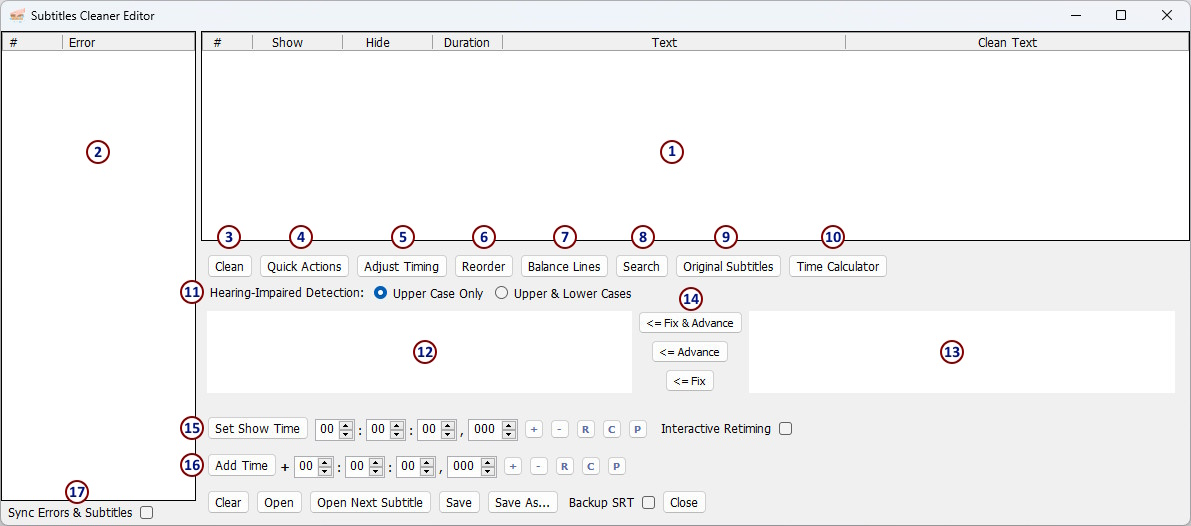
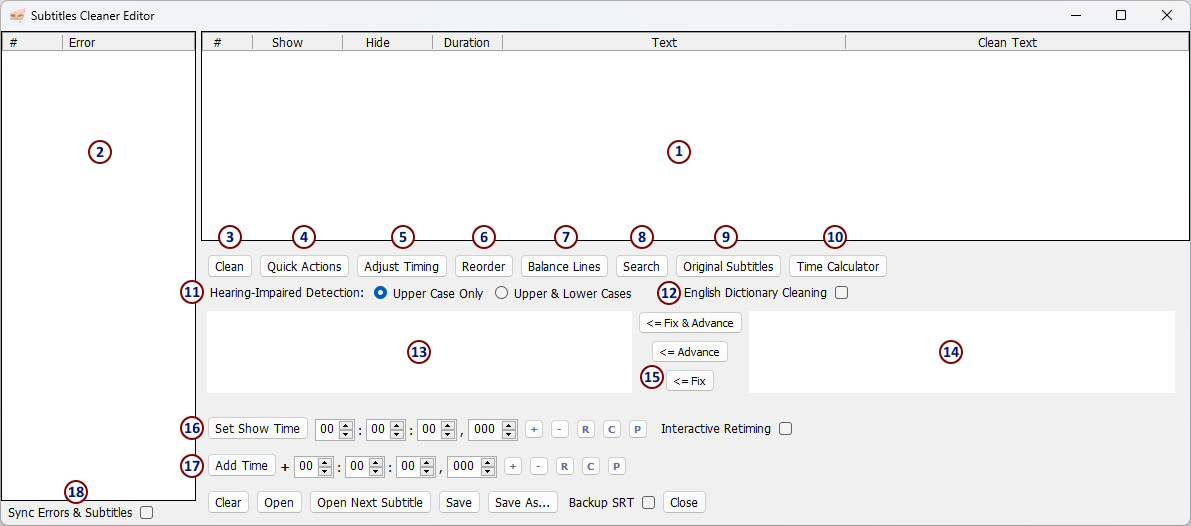
update readme.md with dictionary cleaning checkbox

diff --git a/README.md b/README.md
@@ -40,17 +40,19 @@ Subtitles Cleaner requires .NET Framework 4.8 Runtime to run.
 
 11. Hearing-Impaired Detection. Identifies hearing-impaired with only capital letters text or all-case text.
 
-12. Selected subtitle. Changes can be made in the textbox.
+12. Enable English dictionary (Hunspell dictionary) for cleaning misspelled words. This feature increases the cleaning time.
 
-13. Cleaned subtitle.
+13. Selected subtitle. Changes can be made in the textbox.
 
-14. Fix buttons will copy the cleaned subtitle to the subtitle itself. The advance button will also jump to the next subtitle with an error.
+14. Cleaned subtitle.
 
-15. Set Show Time. Set the specified show time to the selected subtitle and change the timings of all the subtitles below it based on their time differences. When the Interactive Retiming is checked, the show timings will change in the subtitles panel as the show time is changed.
+15. Fix buttons will copy the cleaned subtitle to the subtitle itself. The advance button will also jump to the next subtitle with an error.
 
-16. Add Time starting from the selected subtitle. Time can be positive or negative. The time sign is clickable and changes between `+` and `-`.
+16. Set Show Time. Set the specified show time to the selected subtitle and change the timings of all the subtitles below it based on their time differences. When the Interactive Retiming is checked, the show timings will change in the subtitles panel as the show time is changed.
 
-17. Sync Errors & Subtitles. When checked, clicking on an error or a subtitle will also focus on the other one.
+17. Add Time starting from the selected subtitle. Time can be positive or negative. The time sign is clickable and changes between `+` and `-`.
+
+18. Sync Errors & Subtitles. When checked, clicking on an error or a subtitle will also focus on the other one.
 
 ## Subtitles Cleaner Command
 
